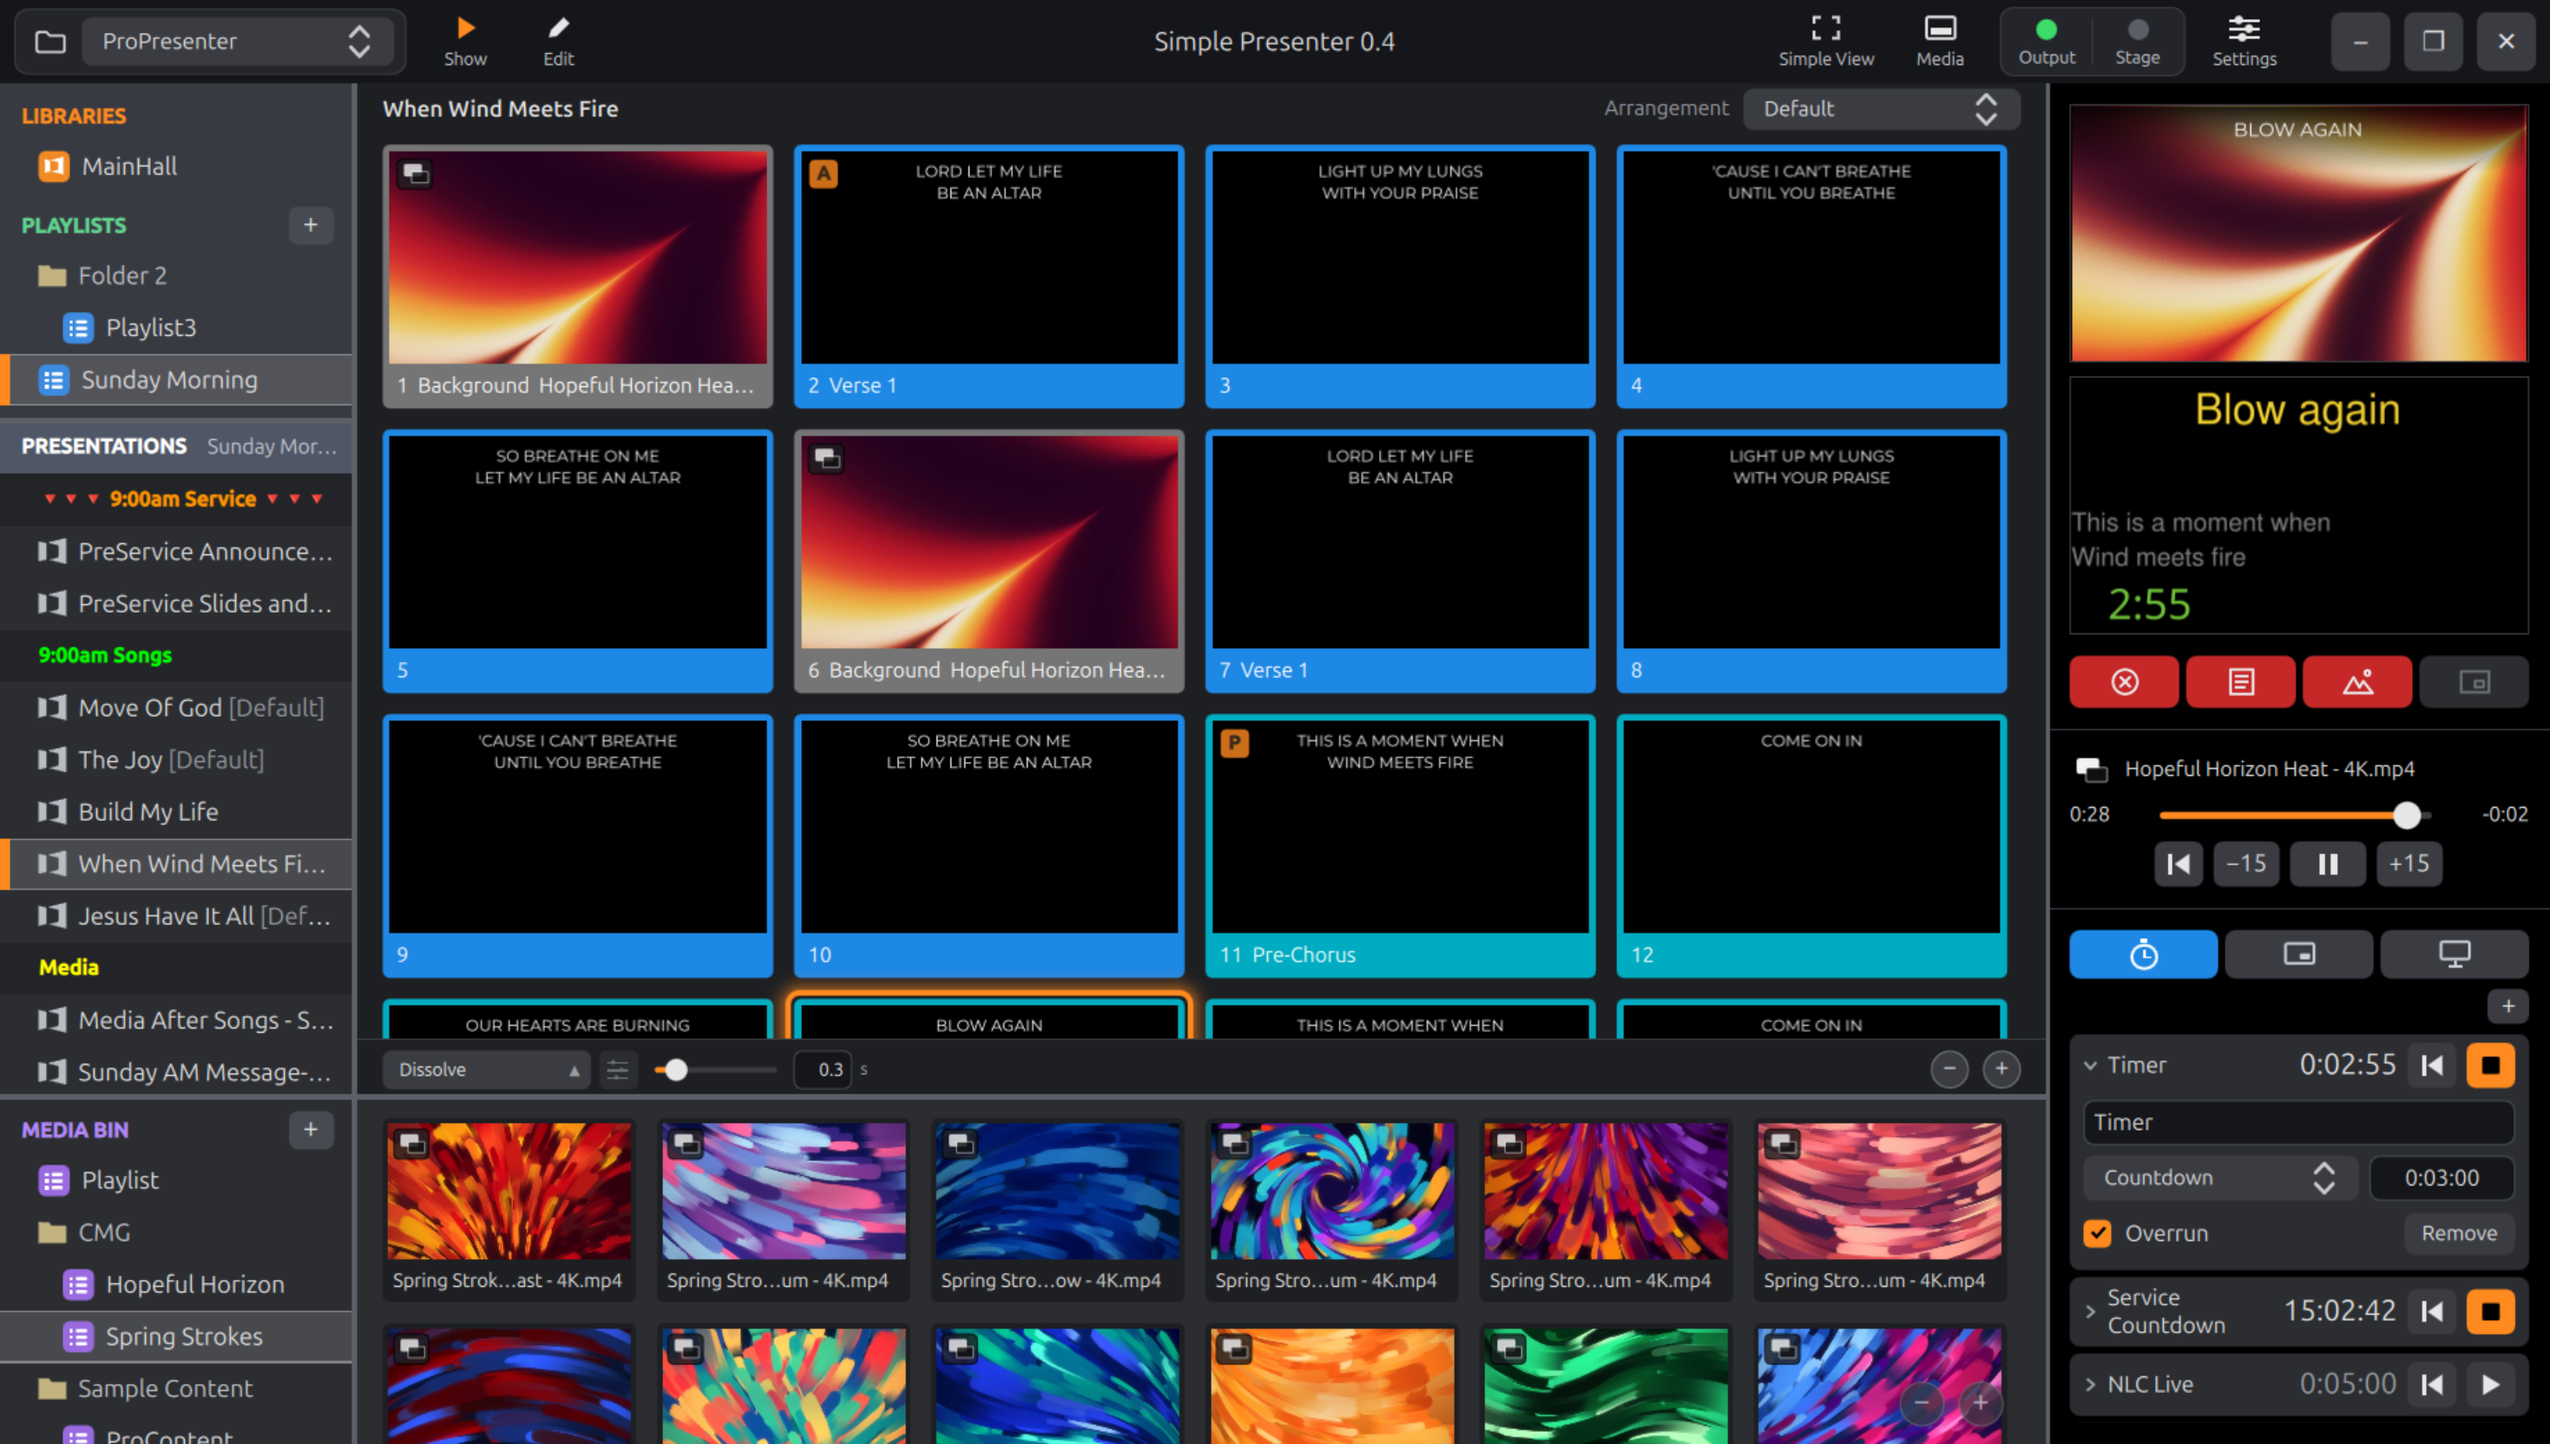
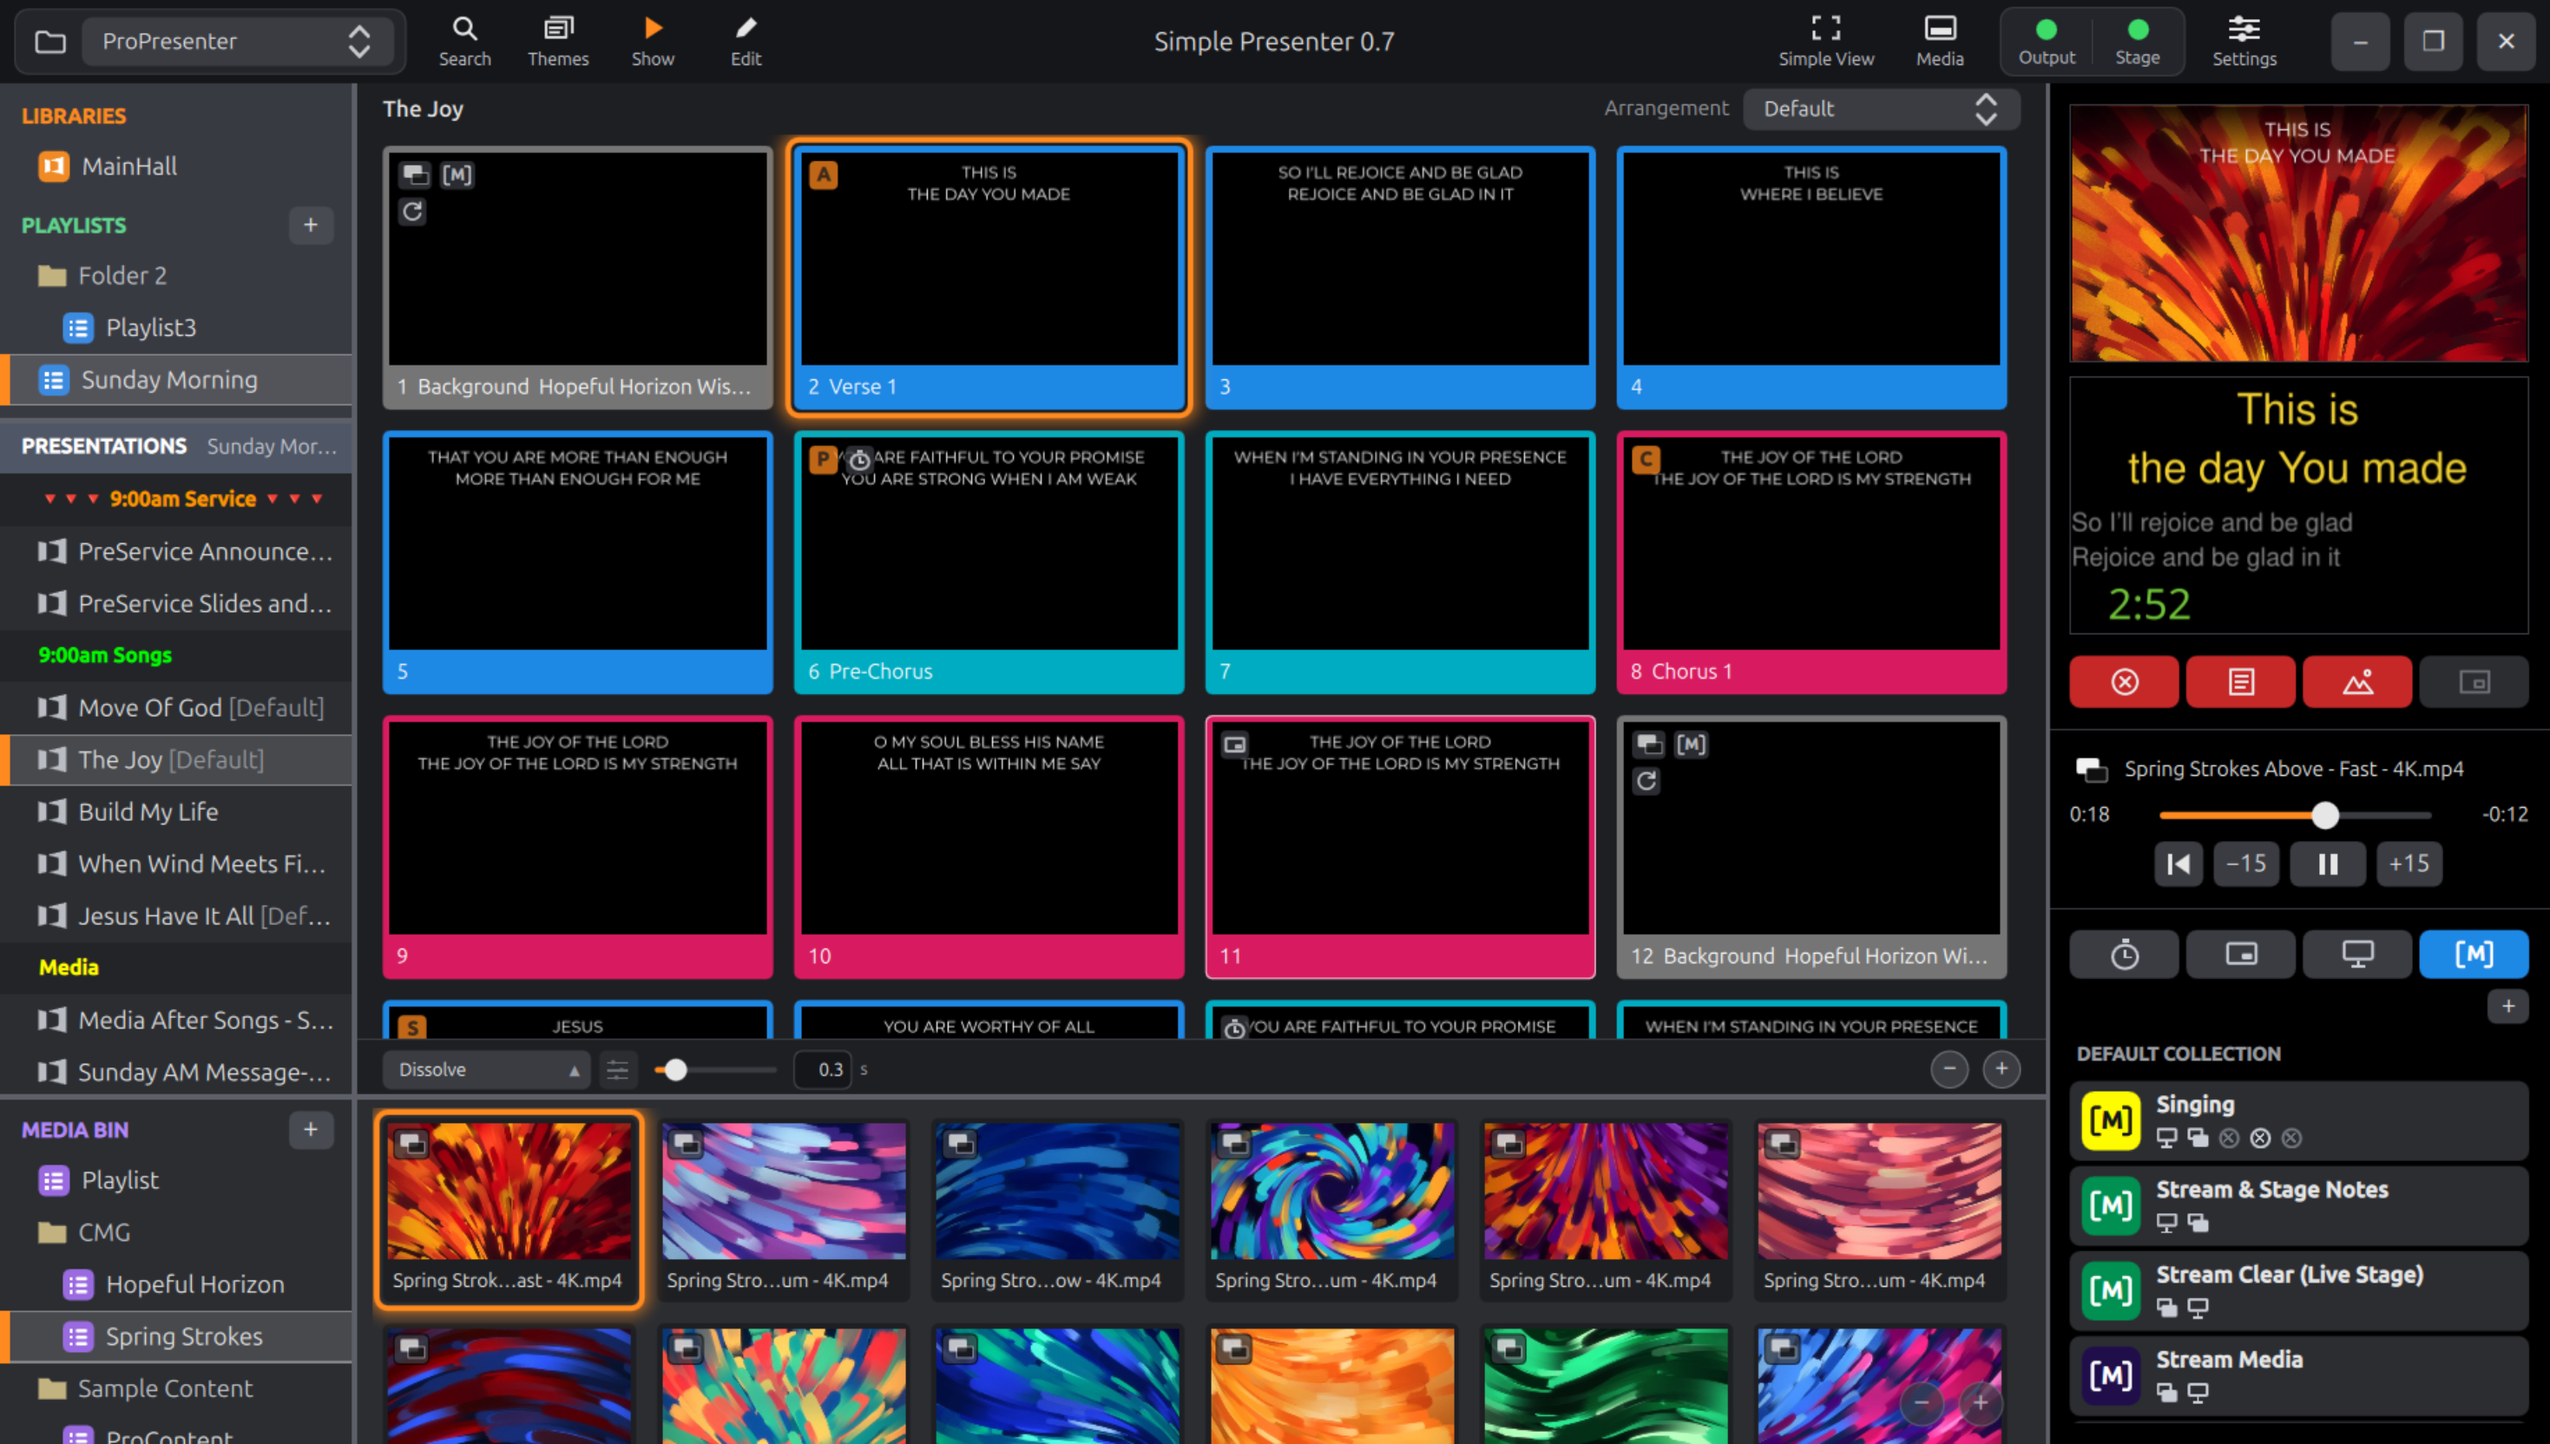
Update the README screenshot

diff --git a/README.md b/README.md
@@ -1,6 +1,6 @@
 # Simple Presenter
 
-![The Simple Presenter operator window: a toolbar across the top, with the workspace picker and the Show and Edit buttons at its left and the buttons for Simple View, the media bin, the output and stage windows and the settings at its right; libraries and playlists at the top left with the selected playlist's presentations below them; in the middle the name of the presentation over a grid of its slides, framed in their group colours, some marked with the hotkey that goes to them and the live one ringed in orange, with the transition and the size of the thumbnails in a bar under them and the media bin under that; and down the right the output and stage previews, the clear buttons, the transport for the video that is playing and the show controls, on their tab of timers](docs/screenshot.png)
+![The Simple Presenter operator window: a toolbar across the top, with the workspace picker and the Search, Themes, Show and Edit buttons at its left and the buttons for Simple View, the media bin, the output and stage screens and the settings at its right; libraries and playlists at the top left with the selected playlist's presentations below them; in the middle the name of the presentation over a grid of its slides, framed in their group colours, some marked with the hotkey that goes to them or with icons for the media and the macro they bring, and the live one ringed in orange, with the transition and the size of the thumbnails in a bar under them and the media bin under that; and down the right the output preview, with the words over a video that is playing, the stage preview with its countdown, the clear buttons, the transport for the video and the show controls, on their tab of macros, each macro with its coloured icon and small icons for its actions](docs/screenshot.png)
 
 ## New in 0.7
 
